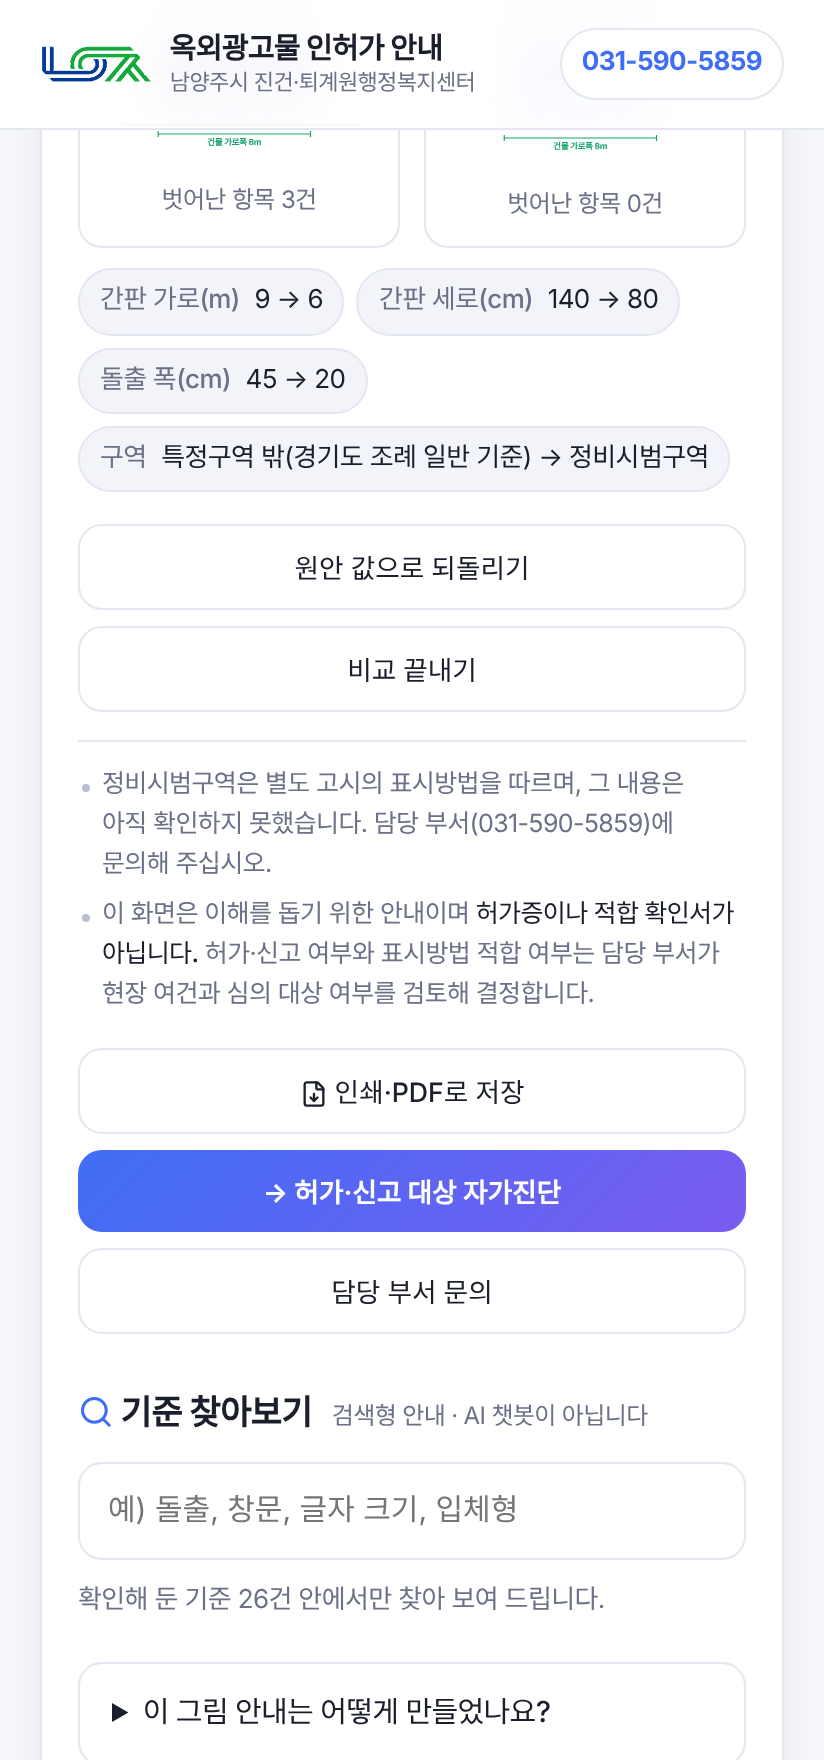
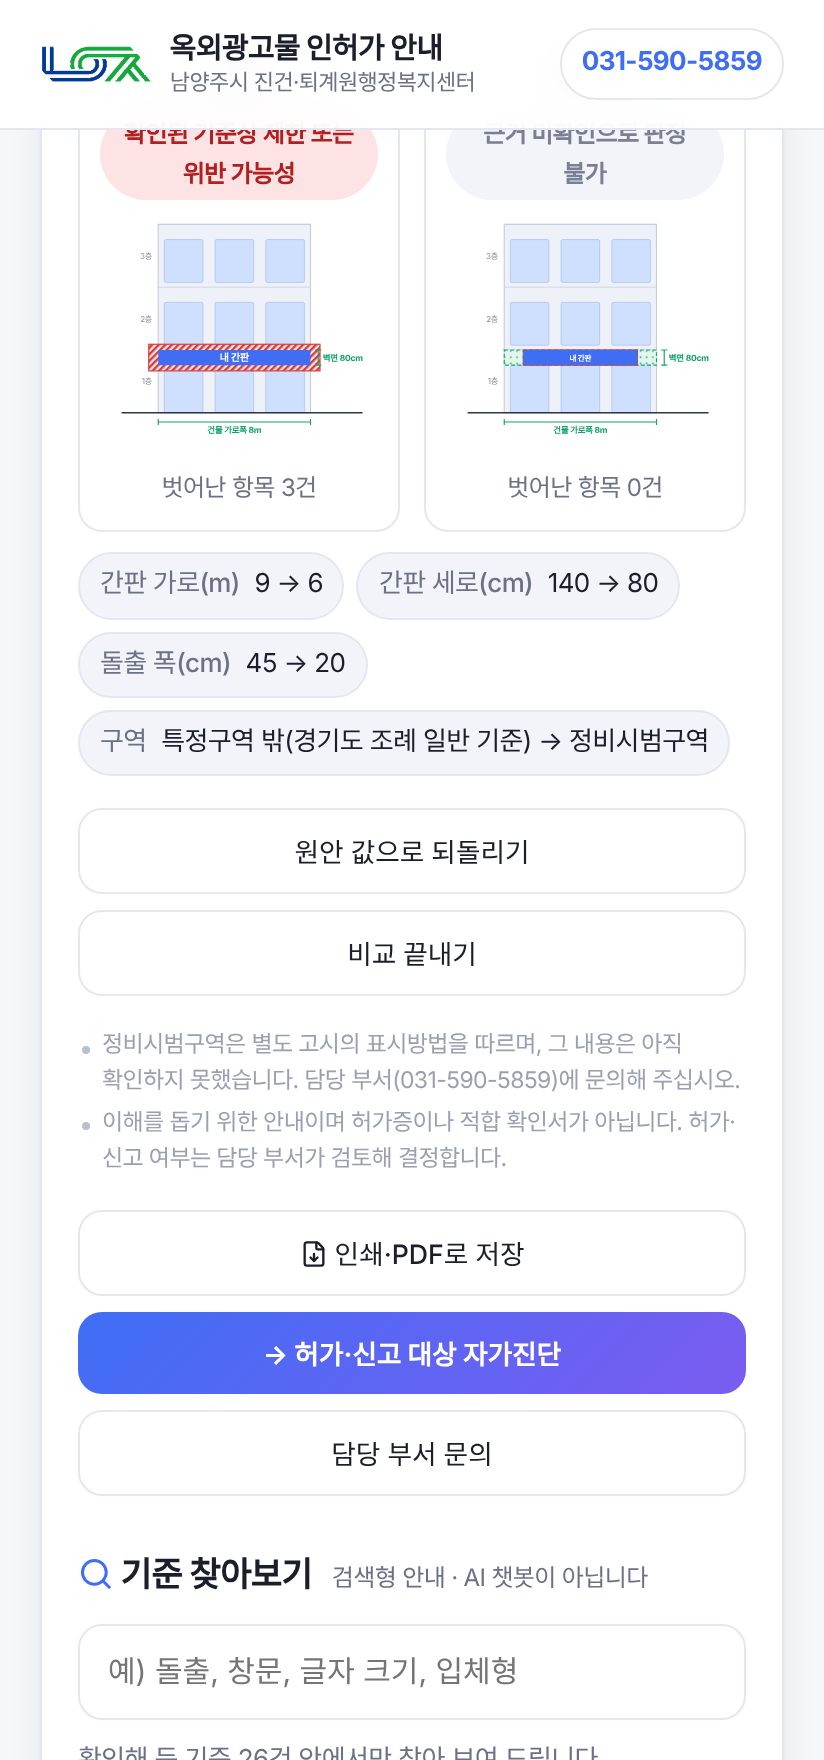
주의·면책 안내를 더 작고 옅게: 주황 선 제거, 면책 문구 한 줄 각주, 미확인 기준은 접어 두기
Claude-Session: https://claude.ai/code/session_01K2D1BivpX3L3RnvX4NEffJ

Changed region(s): [[0.091, 0.0625, 0.9102, 1.0], [0.6978, 0.9688, 0.7282, 1.0], [0.091, 0.2188, 0.1214, 0.25]]

diff --git a/index.html b/index.html
@@ -87,8 +87,8 @@ main{flex:1;padding:36px 0 60px}
 .check{display:inline-block;font-size:12px;font-weight:500;color:var(--muted);background:var(--soft);border:1px solid var(--line);padding:1px 8px;border-radius:999px;vertical-align:middle}
 .law{font-size:12.5px;color:#8a90a3;margin-top:8px}
 .note{padding:14px 18px;border-radius:12px;background:var(--blue-soft);border:1px solid #d6e0fd;font-size:14px;color:#2c4aa8;margin-top:16px}
-.note.warn{background:#fafbfd;border:1px solid var(--line);border-left:3px solid #e3c27e;color:var(--muted);font-size:13.5px;line-height:1.6}
-.note.warn b{color:var(--text)}
+.note.warn{background:none;border:0;border-top:1px solid var(--line);border-radius:0;padding:12px 2px 0;color:#8a90a3;font-size:12.5px;line-height:1.6}
+.note.warn b{color:var(--muted);font-weight:500}
 .tbl{width:100%;border-collapse:collapse;font-size:14px;margin-top:6px}
 .tbl th,.tbl td{border:1px solid var(--line);padding:11px 12px;text-align:left;vertical-align:top}
 .tbl th{background:var(--soft);font-weight:700;white-space:nowrap}
@@ -117,7 +117,7 @@ main{flex:1;padding:36px 0 60px}
 .result.p{background:var(--purple-soft);border-color:#d9cffb}.result.p .big{color:var(--purple)}
 .result.s{background:var(--blue-soft);border-color:#d6e0fd}.result.s .big{color:var(--blue)}
 .result.x{background:var(--ok-soft);border-color:#bfe9d6}.result.x .big{color:var(--ok)}
-.result.c{background:var(--soft);border-color:var(--line)}.result.c .big{color:var(--text)}
+.result.c{background:var(--soft);border-color:var(--line)}.result.c .big{color:#4a5068}
 .result ul{text-align:left;margin:14px auto 0;max-width:560px;color:var(--muted);font-size:14px;padding-left:18px}
 
 /* 6. 기준·서류·절차·FAQ */
@@ -340,16 +340,20 @@ p,li,.a,summary{text-wrap:pretty}
 .vg-cond{font-size:14px;color:var(--text);padding:12px 16px;border-radius:12px;background:var(--soft);border:1px solid var(--line);margin-bottom:12px}
 .vg-rows{list-style:none;display:grid;gap:8px}
 .vg-row{display:flex;gap:12px;align-items:flex-start;padding:13px 16px;border:1px solid var(--line);border-radius:12px;background:#fff;border-left-width:4px}
-.vg-row.ok{border-left-color:#14a36b}.vg-row.bad{border-left-color:#d43b3b}.vg-row.need{border-left-color:#e3c27e}.vg-row.info{border-left-color:#c7d3fb}
+.vg-row.ok{border-left-color:#14a36b}.vg-row.bad{border-left-color:#d43b3b}.vg-row.need{border-left-color:#c9cedc}.vg-row.info{border-left-color:#c7d3fb}
 .vg-row b{font-size:14.5px}.vg-row p{font-size:14px;line-height:1.55}.vg-row em{font-style:normal;color:var(--muted);font-size:13px}
 .vg-badge{flex-shrink:0;font-size:12px;font-weight:700;padding:3px 9px;border-radius:999px;white-space:nowrap;margin-top:1px}
-.vg-badge.ok{background:var(--ok-soft);color:#0c7a4e}.vg-badge.bad{background:#fde3e3;color:#b02020}.vg-badge.need{background:var(--soft);color:#5b6178;border:1px solid var(--line)}.vg-badge.info{background:var(--blue-soft);color:#2c4aa8}
+.vg-badge.ok{background:var(--ok-soft);color:#0c7a4e}.vg-badge.bad{background:#fde3e3;color:#b02020}.vg-badge.need{background:var(--soft);color:#7a8094}.vg-badge.info{background:var(--blue-soft);color:#2c4aa8}
 .vg-exc{font-size:13px!important;color:var(--muted)}
 .vg-src{display:block;font-size:12px;color:#8a90a3;margin-top:4px}
-.vg-foot{list-style:none;margin-top:14px;padding-top:12px;border-top:1px solid var(--line);display:grid;gap:5px;font-size:12.5px;color:var(--muted);line-height:1.6}
+.vg-foot{list-style:none;margin-top:16px;display:grid;gap:3px;font-size:11.5px;color:#9aa0b2;line-height:1.55}
 .vg-foot li{position:relative;padding-left:12px}
 .vg-foot li::before{content:"";position:absolute;left:2px;top:.72em;width:4px;height:4px;border-radius:50%;background:#b9bfd0}
-.vg-foot b{color:var(--text);font-weight:500}
+.vg-foot b{font-weight:400}
+.vg-more{margin-top:8px;font-size:12.5px;color:#8a90a3}
+.vg-more summary{cursor:pointer;padding:4px 2px}
+.vg-more .vg-rows{margin-top:6px}
+.vg-more .vg-row{background:#fafbfd}
 .vg-sample{font-size:12.5px;color:var(--muted);padding:8px 12px;border:1px dashed var(--line);border-radius:10px;margin-bottom:6px}
 .vg-act{display:flex;gap:8px;flex-wrap:wrap;margin-top:16px}
 .h3 small{font-weight:400;font-size:12px;color:var(--muted);margin-left:6px}

diff --git a/js/visual.js b/js/visual.js
@@ -287,12 +287,13 @@ function render(el){
       <p class="vg-cond">${esc(V.type==="wall"?"벽면 이용 간판(가로형)":"돌출간판")} · ${esc(D.regions[V.region])} · ${V.type==="wall"
         ? `${V.floors}층 건물 ${V.floor}층 · 건물 가로폭 ${fmt(V.bldgW)}m · 간판 ${fmt(V.signW)}m × ${fmt(V.signH)}cm · 돌출 ${fmt(V.signD)}cm · ${V.form==="panel"?"판류형":"입체형"}${V.noWindow?" · 창문 없는 벽면":""}`
         : `${V.floors}층 건물 ${V.pFloor}층 · 아랫부분 ${fmt(V.bottom)}m · 돌출 ${fmt(V.out)}cm · 세로 ${fmt(V.len)}m · 두께 ${fmt(V.thick)}cm`}</p>
-      <ul class="vg-rows">${ev.rows.map(rowHtml).join("")}</ul>
+      <ul class="vg-rows">${ev.rows.filter(x=>x.s!=="none"||ev.overall==="none").map(rowHtml).join("")}</ul>
+      ${ev.overall!=="none" && ev.rows.some(x=>x.s==="none") ? `<details class="vg-more"><summary>아직 확인하지 못해 비교하지 않은 기준 ${ev.rows.filter(x=>x.s==="none").length}건</summary><ul class="vg-rows">${ev.rows.filter(x=>x.s==="none").map(rowHtml).join("")}</ul></details>` : ""}
       ${cmp}
       <ul class="vg-foot">
         ${(M.uncertain_regions||[]).includes(V.region)&&!M.sample?`<li>구역을 모르는 상태라 경기도 조례 일반 기준만 비교했습니다. 특정구역 안이면 입체형 설치, 글자 크기 등 기준이 더해집니다.</li>`:""}
         ${(M.no_verdict_regions||[]).includes(V.region)?`<li>정비시범구역은 별도 고시의 표시방법을 따르며, 그 내용은 아직 확인하지 못했습니다. 담당 부서(${CONTACT.tel})에 문의해 주십시오.</li>`:""}
-        <li>이 화면은 이해를 돕기 위한 안내이며 <b>허가증이나 적합 확인서가 아닙니다.</b> 허가·신고 여부와 표시방법 적합 여부는 담당 부서가 현장 여건과 심의 대상 여부를 검토해 결정합니다.</li>
+        <li>이해를 돕기 위한 안내이며 허가증이나 적합 확인서가 아닙니다. 허가·신고 여부는 담당 부서가 검토해 결정합니다.</li>
       </ul>
       <div class="vg-act"><button class="btn" id="vgPrint">${typeof ic==="function"?ic("file-down"):""} 인쇄·PDF로 저장</button>
         <button class="btn primary" onclick="go('diagnose')">→ 허가·신고 대상 자가진단</button>
